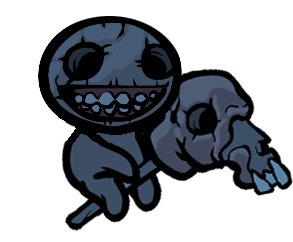
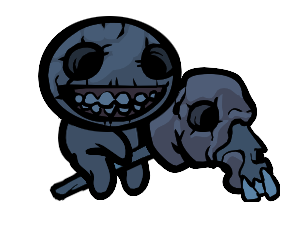
добавлена анимация игрока движеие влево

Changed region(s): [[0.1536, 0.2603, 1.0, 0.9545]]

diff --git a/Game/src/main/java/com/plekhanov/game/gameObjects/Player.java b/Game/src/main/java/com/plekhanov/game/gameObjects/Player.java
@@ -14,6 +14,8 @@ public class Player extends GameObject {
     private BufferedImage playerWoundedImage;
     private BufferedImage playerMoveRightImage;
     private BufferedImage playerMoveRightWoundedImage;
+    private BufferedImage playerMoveLeftImage;
+    private BufferedImage playerMoveLeftWoundedImage;
     private BufferedImage playerJumpImage;
     private BufferedImage playerJumpWoundedImage;
     private final int imageShiftRight = 10; //смещение картинки игрока вправо
@@ -58,6 +60,8 @@ public class Player extends GameObject {
         playerWoundedImage = ImageLoader.getPlayerWoundedImage();
         playerMoveRightImage = ImageLoader.getPlayerMoveRightImage();
         playerMoveRightWoundedImage = ImageLoader.getPlayerMoveRightWoundedImage();
+        playerMoveLeftImage = ImageLoader.getPlayerMoveLeftImage();
+        playerMoveLeftWoundedImage = ImageLoader.getPlayerMoveLeftWounded();
         playerJumpImage = ImageLoader.getPlayerJumpImage();
         playerJumpWoundedImage = ImageLoader.getPlayerJumpWoundedImage();
     }
@@ -135,7 +139,15 @@ public class Player extends GameObject {
             }
         }
 
-        if (speedY < 0) {  // игрок движется вверх
+        if (moveLeft) {
+           if (playerWounded()) {
+               return playerMoveLeftWoundedImage;
+           } else {
+               return playerMoveLeftImage;
+           }
+        }
+
+        if (playerJump()) {  // игрок движется вверх
             if (playerWounded()) {
                 return playerJumpWoundedImage;
             } else {
@@ -186,6 +198,14 @@ public class Player extends GameObject {
 
     private boolean playerWounded() {
         return invulnerabilityCount > 0 && Math.ceil(invulnerabilityCount / 50) % 2 == 0;
+    }
+
+    private boolean playerJump() {
+        if (speedY < -0.8) {
+            return true;
+        } else {
+            return false;
+        }
     }
 
     public boolean isMoveRight() {

diff --git a/Game/src/main/java/com/plekhanov/game/ImageLoader.java b/Game/src/main/java/com/plekhanov/game/ImageLoader.java
@@ -42,6 +42,8 @@ public class ImageLoader {
     private static BufferedImage playerWoundedImage;
     private static BufferedImage playerMoveRightImage;
     private static BufferedImage playerMoveRightWoundedImage;
+    private static BufferedImage playerMoveLeftImage;
+    private static BufferedImage playerMoveLeftWoundedImage;
     private static BufferedImage playerJumpImage;
     private static BufferedImage playerJumpWoundedImage;
     private static BufferedImage heartImage;
@@ -96,6 +98,10 @@ public class ImageLoader {
             playerMoveRightImage = ImageIO.read(playerMoveRightImageFile);
             File playerMoveRightWoundedImageFile = new File(PATH_TO_RESOURCE + "player" + FS + "PlayerMoveRightWounded.png");
             playerMoveRightWoundedImage = ImageIO.read(playerMoveRightWoundedImageFile);
+            File playerMoveLeft = new File(PATH_TO_RESOURCE + "player" + FS + "PlayerMoveLeft.png");
+            playerMoveLeftImage = ImageIO.read(playerMoveLeft);
+            File playerMoveLeftWounded = new File(PATH_TO_RESOURCE + "player" + FS + "PlayerMoveLeftWounded.png");
+            playerMoveLeftWoundedImage = ImageIO.read(playerMoveLeftWounded);
             File playerJump = new File(PATH_TO_RESOURCE + "player" + FS + "PlayerJump.png");
             playerJumpImage = ImageIO.read(playerJump);
             File playerJumpWounded = new File(PATH_TO_RESOURCE + "player" + FS + "PlayerJumpWounded.png");
@@ -178,6 +184,14 @@ public class ImageLoader {
 
     public static BufferedImage getPlayerMoveRightWoundedImage() {
         return playerMoveRightWoundedImage;
+    }
+
+    public static BufferedImage getPlayerMoveLeftImage() {
+        return playerMoveLeftImage;
+    }
+
+    public static BufferedImage getPlayerMoveLeftWounded() {
+        return playerMoveLeftWoundedImage;
     }
 
     public static BufferedImage getPlayerJumpImage() {
